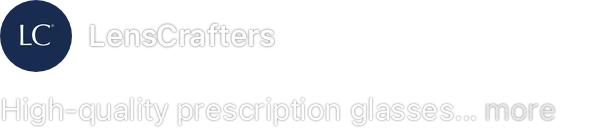
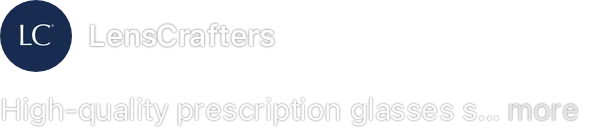
SAP: caption fit tolerance 4pt (mid-word cut when a word cut leaves >4pt): Ray-Ban and LensCrafters re-fitted, arrows moved; spec .md removed from the deployed tree; poster re-rendered

Changed region(s): [[0.7426, 0.7692, 0.9505, 0.9538]]

diff --git a/preview/sap-proto/index.html b/preview/sap-proto/index.html
@@ -60,7 +60,7 @@ video{display:block;object-fit:cover}
 .det{left:12px;top:565px;width:303px;height:120px}
 /* the caption's "... more" down arrow: the Caption & Browse arrow (preview/shared/caption/chevron-down.svg, 12×8 box, the 8×4 arrow 2px in),
    5px after the ink of "more", centred on the caption's x-height (line top + 9); left per ad = 12 + the "more" ink end + 3.05, snapped down to 0.5.
-   Captions are fitted so the arrow's drawn right edge (left + 10.65) lands within 12px of, never past, the CTA's right edge x 315 (preview/shared/caption/ad-label-spec.md) */
+   Captions are fitted so the arrow's drawn right edge (left + 10.65) lands within 4px of, never past, the CTA's right edge x 315 */
 .cchev{width:12px;height:8px;pointer-events:none}
 .ufi{left:326px;top:486px;width:49px;height:237px}
 .row{left:12px;top:698px;width:303px;height:24px;overflow:hidden}
@@ -72,7 +72,7 @@ video{display:block;object-fit:cover}
 .sp{left:0;width:47.5px}
 /* the Ad label (Reels, 2025+; replaced "Sponsored"): the shared pill, preview/shared/caption/ad-pill.svg, drawn with its own fill; 12px above the reel's
    bottom edge (top 698), left-aligned with the CTA. The brand row has the shared globe (preview/shared/caption/globe.svg) 7px after the name;
-   stack (bottom-anchored, from Hang's Reels references): author 565 · caption line 610 · CTA 641–685 · Ad 698–722 (see preview/shared/caption/ad-label-spec.md) */
+   stack (bottom-anchored, from Hang's Reels references): author 565 · caption line 610 · CTA 641–685 · Ad 698–722 */
 .pill.sp{background:none}
 .cglobe{width:12px;height:12px;pointer-events:none}
 .chip{left:51.5px;width:153px;opacity:0;will-change:transform,opacity}
@@ -137,7 +137,7 @@ html.embed-full,html.embed-full body,html.embed-full .mframe{background:transpar
         <div class="L seed" id="seed" aria-hidden="true">
           <video class="fv" id="sv" muted playsinline preload="auto" disableremoteplayback poster="../../assets/vac/vac-sap-rayban.webp?v=209" src="../../assets/vac/vac-sap-rayban.mp4?v=209"></video>
           <i class="tgrad"></i><i class="grad"></i>
-          <img class="det" alt="" src="assets/det-rayban.webp?v=209"><img class="cglobe" alt="" src="../shared/caption/globe.svg?v=209" style="left:124.5px;top:577px"><img class="cchev" alt="" src="../shared/caption/chevron-down.svg?v=209" style="left:296.5px;top:617px">
+          <img class="det" alt="" src="assets/det-rayban.webp?v=209"><img class="cglobe" alt="" src="../shared/caption/globe.svg?v=209" style="left:124.5px;top:577px"><img class="cchev" alt="" src="../shared/caption/chevron-down.svg?v=209" style="left:303.5px;top:617px">
           <div class="row"><span class="pill sp"><img alt="" src="../shared/caption/ad-pill.svg?v=209"></span><span class="pill chip" id="chip"><img alt="" src="assets/chip.webp?v=209"><i id="chipPress"></i></span></div>
           <i class="press" id="ctaPress" style="left:12px;top:641px;width:303px;height:44px"></i>
           <img class="ufi" alt="" src="assets/ufi.webp?v=209">
@@ -154,7 +154,7 @@ html.embed-full,html.embed-full body,html.embed-full .mframe{background:transpar
             <i class="tgrad"></i><i class="grad"></i><img class="det" alt="" src="assets/det-even.webp?v=209"><img class="cglobe" alt="" src="../shared/caption/globe.svg?v=209" style="left:162.5px;top:577px"><img class="cchev" alt="" src="../shared/caption/chevron-down.svg?v=209" style="left:302.5px;top:617px"><i class="press" style="left:12px;top:641px;width:303px;height:44px"></i>
             <div class="row"><span class="pill sp"><img alt="" src="../shared/caption/ad-pill.svg?v=209"></span></div><img class="ufi" alt="" src="assets/ufi.webp?v=209"></div>
           <div class="L pg lc" id="pl"><video class="fv" id="lv" muted playsinline preload="auto" disableremoteplayback poster="../../assets/vac/vac-sap-lc.webp?v=209" src="../../assets/vac/vac-sap-lc.mp4?v=209" style="background-image:url(../../assets/vac/vac-sap-lc.webp?v=209)"></video>
-            <img alt="" src="assets/det-lc.webp?v=209" style="left:12px;top:537px;width:303px;height:65px"><img class="cglobe" alt="" src="../shared/caption/globe.svg?v=209" style="left:156px;top:549px"><img class="cchev" alt="" src="../shared/caption/chevron-down.svg?v=209" style="left:292.5px;top:589px">
+            <img alt="" src="assets/det-lc.webp?v=209" style="left:12px;top:537px;width:303px;height:65px"><img class="cglobe" alt="" src="../shared/caption/globe.svg?v=209" style="left:156px;top:549px"><img class="cchev" alt="" src="../shared/caption/chevron-down.svg?v=209" style="left:304px;top:589px">
             <div class="hs"><b id="hsr"><span style="left:0"><img alt="" src="assets/lc-1.webp?v=209"><i class="press"></i></span><span style="left:80px"><img alt="" src="assets/lc-2.webp?v=209"><i class="press"></i></span><span style="left:160px"><img alt="" src="assets/lc-3.webp?v=209"><i class="press"></i></span><span style="left:240px"><img alt="" src="assets/lc-4.webp?v=209"><i class="press"></i></span><span style="left:320px"><img alt="" src="assets/lc-5.webp?v=209"><i class="press"></i></span><span style="left:400px"><img alt="" src="assets/lc-6.webp?v=209"><i class="press"></i></span></b></div>
             <div class="row"><span class="pill sp"><img alt="" src="../shared/caption/ad-pill.svg?v=209"></span></div><img class="ufi" alt="" src="assets/ufi.webp?v=209"></div>
         </div>
